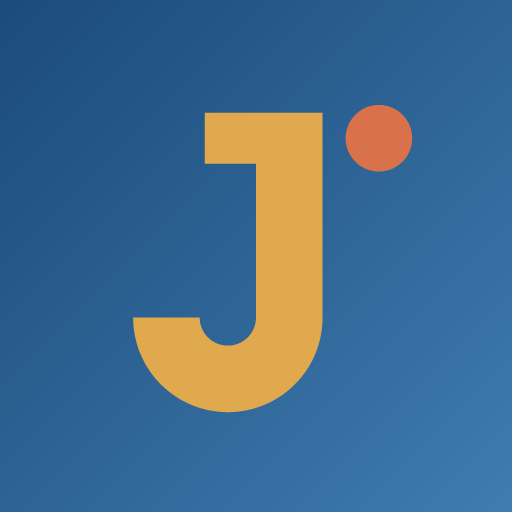
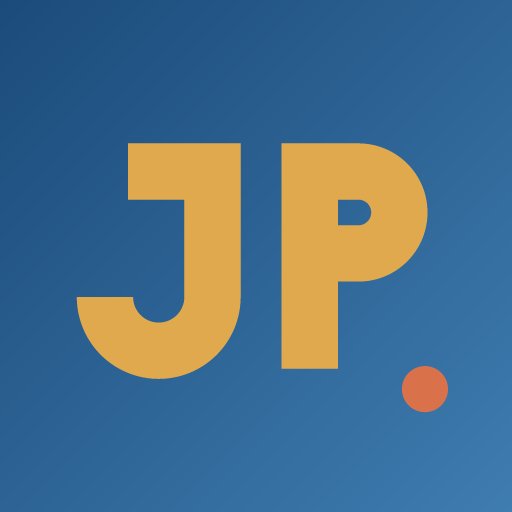
앱 이름·로고·아이콘을 JP로
- 화면 제목·홈 화면 이름·manifest: JP
- 상단 로고: 남색 배지 + 금색 JP (앱 아이콘과 같은 모양)
- 앱 아이콘 PNG를 JP 두 글자로 다시 그림 (tests/make-icons.js)
- 백업 파일 이름 JP-백업-날짜.json, 사용법 제목 등 문구 변경
- 서비스 워커 캐시 버전 올림 (아이콘 바뀜)

Changed region(s): [[0.125, 0.1875, 0.8438, 0.8125], [0.7812, 0.6875, 0.875, 0.8125]]

diff --git a/tests/make-icons.js b/tests/make-icons.js
@@ -1,5 +1,5 @@
 // 앱 아이콘 PNG 만들기 (외부 패키지 없음): node tests/make-icons.js
-// 남색 그라데이션 바탕 + 금색 J + 주황 점. icons/ 에 192·512·180(아이폰) 저장
+// 남색 그라데이션 바탕 + 금색 JP + 주황 점. icons/ 에 192·512·180(아이폰) 저장
 const fs = require('fs'), path = require('path'), zlib = require('zlib');
 
 function crc32(buf){
@@ -31,17 +31,24 @@ const hex = h => [parseInt(h.slice(1,3),16), parseInt(h.slice(3,5),16), parseInt
 const NAVY = hex('#1b4b7a'), NAVY2 = hex('#3f7cb0'), GOLD = hex('#e0a94e'), ORANGE = hex('#d9724a');
 const mix = (a, b, t) => a.map((v,i) => Math.round(v + (b[i]-v)*t));
 
-// 단위 좌표(0~1)에서 모양 판정
+// 단위 좌표(0~1)에서 모양 판정 — 'JP' 두 글자 (획 두께 0.11)
+const T = 0.11, TOP = 0.28, BOT = 0.72;
 function inJ(u, v){
-  const stemX0 = 0.50, stemX1 = 0.63, top = 0.22, bottom = 0.62;
-  if(u>=stemX0 && u<=stemX1 && v>=top && v<=bottom) return true;          // 세로 기둥
-  if(u>=0.40 && u<=stemX1 && v>=top && v<=top+0.10) return true;          // 위 가로줄
-  const cx = (stemX0+stemX1)/2 - 0.12, cy = bottom, rOut = 0.12+0.065, rIn = 0.12-0.065; // 아래 갈고리(반원)
-  const d = Math.hypot(u-cx, v-cy);
-  if(v>=cy && d<=rOut && d>=rIn) return true;
-  return false;
+  const x1 = 0.47, x0 = x1 - T, hookY = 0.58;
+  if(u>=x0 && u<=x1 && v>=TOP && v<=hookY) return true;                    // 세로 기둥
+  if(u>=0.25 && u<=x1 && v>=TOP && v<=TOP+T) return true;                   // 위 가로줄
+  const r = (x1 - 0.15)/2, cx = 0.15 + r, rOut = r, rIn = r - T;            // 아래 갈고리(반원)
+  const d = Math.hypot(u-cx, v-hookY);
+  return v>=hookY && d<=rOut && d>=rIn;
 }
-function inDot(u, v){ return Math.hypot(u-0.74, v-0.27) <= 0.065; }
+function inP(u, v){
+  const x0 = 0.55, x1 = x0 + T, bowlB = TOP + 0.27, cx = 0.70, cy = (TOP + bowlB)/2, rOut = (bowlB - TOP)/2;
+  if(u>=x0 && u<=x1 && v>=TOP && v<=BOT) return true;                       // 세로 기둥
+  if(u>=x0 && u<=cx && ((v>=TOP && v<=TOP+T) || (v>=bowlB-T && v<=bowlB))) return true; // 위·아래 가로줄
+  const d = Math.hypot(u-cx, v-cy);
+  return u>=cx && d<=rOut && d>=rOut-T;                                     // 오른쪽 반원
+}
+function inDot(u, v){ return Math.hypot(u-0.83, v-0.76) <= 0.045; }
 
 function render(size){
   const S = 4; // 4x4 슈퍼샘플링으로 가장자리 부드럽게
@@ -50,7 +57,7 @@ function render(size){
     let j = 0, dot = 0;
     for(let sy=0; sy<S; sy++) for(let sx=0; sx<S; sx++){
       const u = (x + (sx+0.5)/S)/size, v = (y + (sy+0.5)/S)/size;
-      if(inDot(u,v)) dot++; else if(inJ(u,v)) j++;
+      if(inDot(u,v)) dot++; else if(inJ(u,v) || inP(u,v)) j++;
     }
     let c = mix(bg, GOLD, j/(S*S));
     c = mix(c, ORANGE, dot/(S*S));

diff --git a/index.html b/index.html
@@ -3,10 +3,10 @@
 <head>
 <meta charset="UTF-8">
 <meta name="viewport" content="width=device-width, initial-scale=1, viewport-fit=cover, maximum-scale=1">
-<title>J플래너</title>
+<title>JP</title>
 <meta name="apple-mobile-web-app-capable" content="yes">
 <meta name="apple-mobile-web-app-status-bar-style" content="black-translucent">
-<meta name="apple-mobile-web-app-title" content="J플래너">
+<meta name="apple-mobile-web-app-title" content="JP">
 <meta name="theme-color" content="#1b4b7a" id="themeColorMeta">
 <script>
 /* 화면 모드를 그리기 전에 적용 (깜빡임 방지). 값은 이 기기에만 저장 */
@@ -20,7 +20,7 @@ try{ var tp = localStorage.getItem('jplanner_theme'); if(tp==='light'||tp==='dar
 <body>
 
 <div class="appbar">
-  <div class="logo">🧭 J플래너</div>
+  <div class="logo"><span class="logo-mark">JP</span></div>
   <div class="spacer"></div>
   <button class="iconbtn" id="btnHelp">❓</button>
   <button class="tripbtn" id="btnTripName"><span class="name" id="tripNameLabel">여행</span><span>▾</span></button>
@@ -252,7 +252,7 @@ try{ var tp = localStorage.getItem('jplanner_theme'); if(tp==='light'||tp==='dar
 <!-- 사용법 시트 -->
 <div class="sheet" id="sheetHelp">
   <div class="grip"></div>
-  <h3>J플래너 사용법</h3>
+  <h3>JP 사용법</h3>
   <div class="helpcard"><div class="h">✈ 여러 여행 관리</div><div class="b">상단 여행 이름을 눌러 여행을 추가·전환할 수 있어요.</div></div>
   <div class="helpcard"><div class="h">🗓 일정 추가</div><div class="b">하단 '＋ 일정 추가'로 카테고리·시간·장소를 등록하면 자동으로 시간순 정렬돼요.</div></div>
   <div class="helpcard"><div class="h">🗺 오버뷰</div><div class="b">지도 위에서 그날의 동선을 캐릭터가 이동하며 보여줘요. 핀을 누르면 해당 일정으로 이동해요.</div></div>

diff --git a/photo-test.html b/photo-test.html
@@ -3,7 +3,7 @@
 <head>
 <meta charset="UTF-8">
 <meta name="viewport" content="width=device-width, initial-scale=1, viewport-fit=cover">
-<title>사진 GPS 테스트 · J플래너</title>
+<title>사진 GPS 테스트 · JP</title>
 <script>
 try{ var tp = localStorage.getItem('jplanner_theme'); if(tp==='light'||tp==='dark') document.documentElement.setAttribute('data-theme', tp); }catch(e){}
 </script>
@@ -140,7 +140,7 @@ function groupVisits(rows){
 
 function buildReport(rows){
   var ua = navigator.userAgent;
-  var lines = ['[J플래너 사진 GPS 테스트]', '브라우저: '+ua, '사진 '+rows.length+'장'];
+  var lines = ['[JP 사진 GPS 테스트]', '브라우저: '+ua, '사진 '+rows.length+'장'];
   rows.forEach(function(r, i){
     lines.push((i+1)+'. '+r.name+' | '+r.type+' | '+r.sizeKB+'KB | GPS '+(r.lat!=null?'O':'X')+
       ' | 촬영 '+(r.taken||'-')+' | 시간대 '+(r.offset?r.offset+'('+r.offsetSrc+')':'-')+(r.error?' | 오류 '+r.error:''));

diff --git a/css/app.css b/css/app.css
@@ -44,6 +44,9 @@ h1,h2,h3,p{margin:0;}
   padding:calc(10px + var(--safe-top)) 14px 10px;display:flex;align-items:center;gap:8px;
   border-bottom:1px solid var(--border);}
 .appbar .logo{font-weight:800;color:var(--navy);font-size:17px;letter-spacing:-0.3px;}
+/* JP 로고: 앱 아이콘과 같은 남색 배지 + 금색 글자 */
+.appbar .logo-mark{display:inline-flex;align-items:center;justify-content:center;height:30px;padding:0 9px;border-radius:9px;
+  background:linear-gradient(135deg,#1b4b7a,#3f7cb0);color:#e0a94e;font-size:16px;font-weight:900;letter-spacing:.5px;}
 .appbar .spacer{flex:1;}
 .iconbtn{width:34px;height:34px;border-radius:10px;display:flex;align-items:center;justify-content:center;
   background:var(--bg);font-size:16px;color:var(--navy);}

diff --git a/sw.js b/sw.js
@@ -1,8 +1,8 @@
-/* J플래너 서비스 워커 — 오프라인에서도 앱과 기록을 볼 수 있게 앱 파일을 저장해 둔다.
+/* JP 서비스 워커 — 오프라인에서도 앱과 기록을 볼 수 있게 앱 파일을 저장해 둔다.
  * 전략: 같은 사이트 파일은 '네트워크 먼저, 안 되면 저장본' (온라인이면 항상 최신).
  *       구글 지도 등 다른 사이트 요청은 건드리지 않는다 (저장 안 함).
  * 앱 파일 목록(SHELL)이 바뀌면 CACHE 이름의 숫자를 올린다. */
-const CACHE = 'jplanner-shell-v1';
+const CACHE = 'jplanner-shell-v2';
 const SHELL = [
   './', 'index.html', 'css/app.css', 'manifest.webmanifest',
   'icons/icon-192.png', 'icons/icon-512.png', 'icons/apple-touch-icon.png',

diff --git a/js/backup.js b/js/backup.js
@@ -17,7 +17,7 @@ async function buildBackup(){
     if(f) files[ids[i]] = {type:f.type, data: await blobToDataUrl(f.blob)};
   }
   var json = JSON.stringify({app:BACKUP_APP, version:BACKUP_VERSION, exportedAt:new Date().toISOString(), state:state, files:files});
-  return new File([json], 'J플래너-백업-'+todayStr()+'.json', {type:'application/json'});
+  return new File([json], 'JP-백업-'+todayStr()+'.json', {type:'application/json'});
 }
 
 // 아이폰은 공유 시트('파일에 저장'), 안 되면 다운로드

diff --git a/js/ics.js b/js/ics.js
@@ -10,7 +10,7 @@ function icsDate(dayStr, timeStr){
   return d.getFullYear()+pad2(d.getMonth()+1)+pad2(d.getDate())+'T'+pad2(+hm[0])+pad2(+hm[1])+'00';
 }
 function downloadIcsForItems(items, label){
-  var lines = ['BEGIN:VCALENDAR','VERSION:2.0','PRODID:-//J플래너//KO'];
+  var lines = ['BEGIN:VCALENDAR','VERSION:2.0','PRODID:-//JP//KO'];
   items.forEach(function(it){
     var startDt = icsDate(it.day, it.time);
     // 종료 = 시작 + 1시간 (자정을 넘기면 다음 날로)
